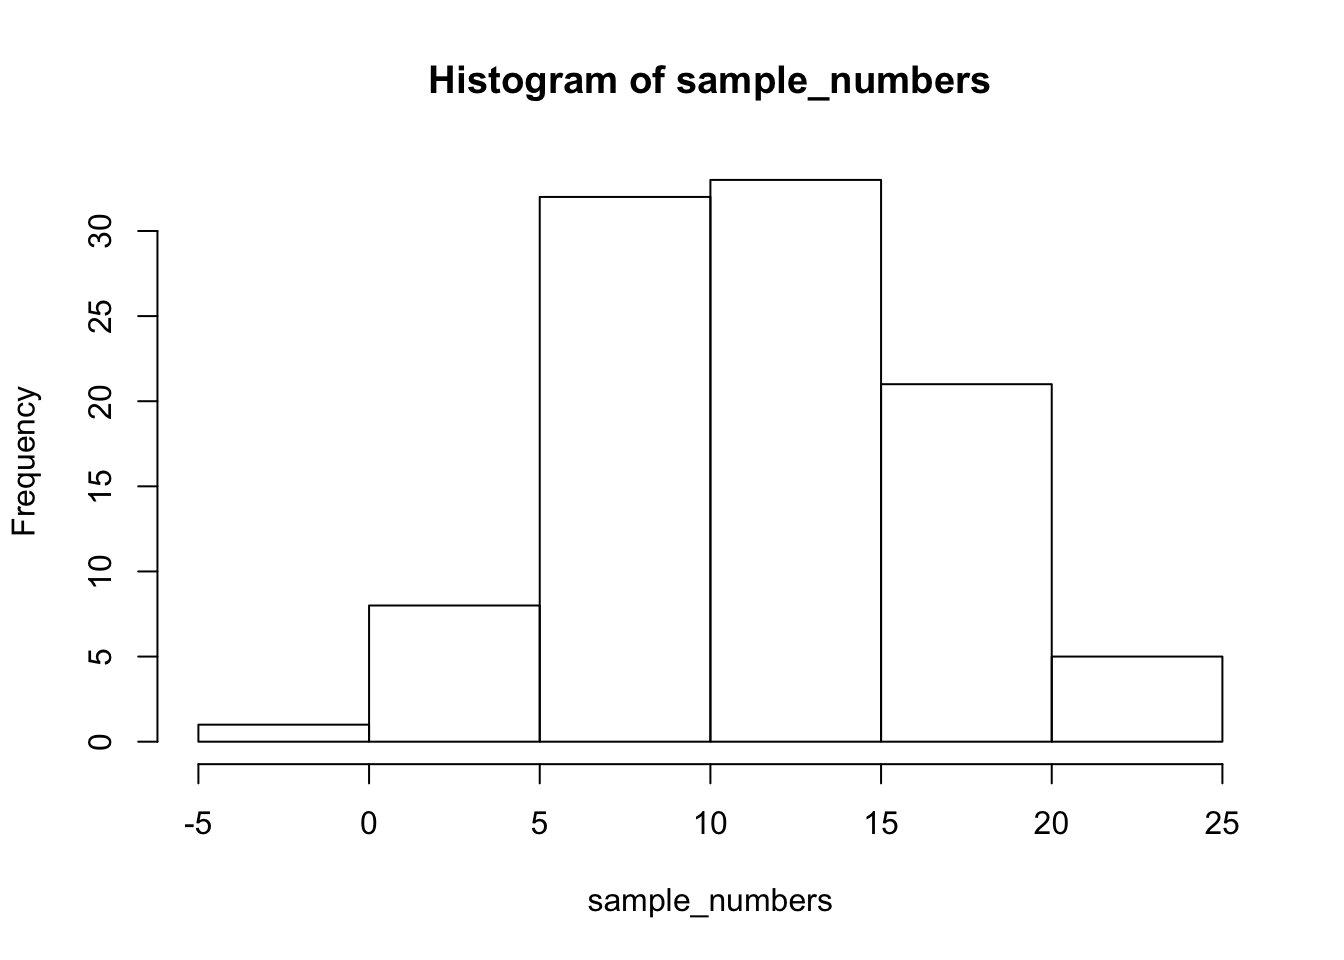
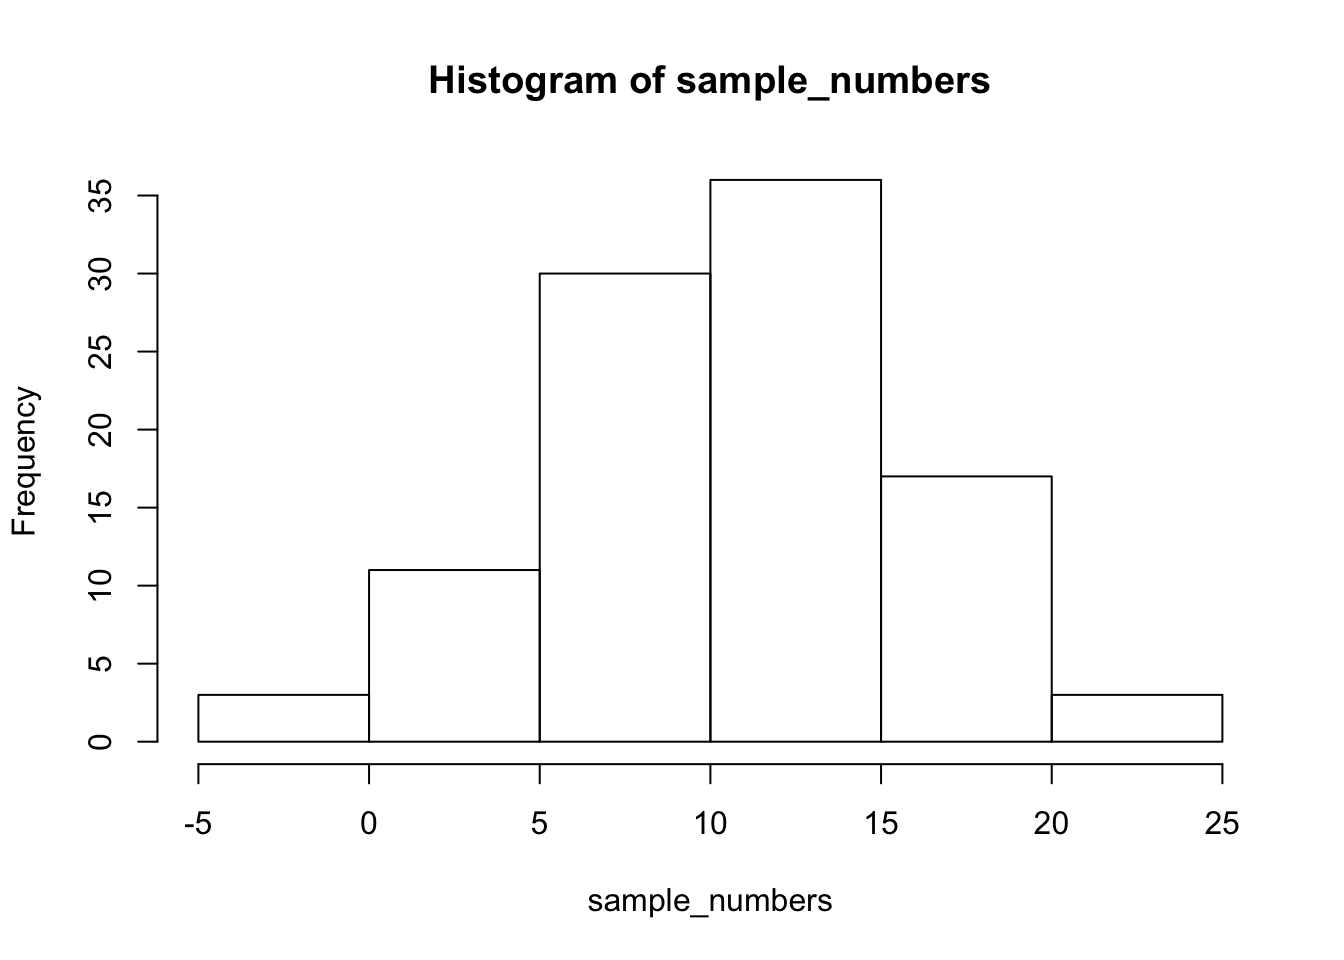
note chart editor

diff --git a/docs/lab-2-descriptive-statistics.html b/docs/lab-2-descriptive-statistics.html
@@ -617,22 +617,22 @@ Describing comic sensibility is near impossible. It’s sort of an abstract sill
 <h4><span class="header-section-number">2.2.3.1</span> range</h4>
 <p>The range is the minimum and maximum values in the set, we use the <code>range</code> function.</p>
 <div class="sourceCode" id="cb21"><pre class="sourceCode r"><code class="sourceCode r"><span id="cb21-1"><a href="lab-2-descriptive-statistics.html#cb21-1" aria-hidden="true" tabindex="-1"></a><span class="fu">range</span>(sample_numbers)</span></code></pre></div>
-<pre><code>## [1] -1.827349 23.077740</code></pre>
+<pre><code>## [1] -2.235343 24.163103</code></pre>
 </div>
 <div id="var-variance" class="section level4" number="2.2.3.2">
 <h4><span class="header-section-number">2.2.3.2</span> var = variance</h4>
 <p>We can find the sample variance using <code>var</code>. Note, divides by (n-1)</p>
 <div class="sourceCode" id="cb23"><pre class="sourceCode r"><code class="sourceCode r"><span id="cb23-1"><a href="lab-2-descriptive-statistics.html#cb23-1" aria-hidden="true" tabindex="-1"></a><span class="fu">var</span>(sample_numbers)</span></code></pre></div>
-<pre><code>## [1] 26.78856</code></pre>
+<pre><code>## [1] 29.04156</code></pre>
 </div>
 <div id="sd-standard-deviation" class="section level4" number="2.2.3.3">
 <h4><span class="header-section-number">2.2.3.3</span> sd = standard deviation</h4>
 <p>We find the sample standard deviation us SD. Note, divides by (n-1)</p>
 <div class="sourceCode" id="cb25"><pre class="sourceCode r"><code class="sourceCode r"><span id="cb25-1"><a href="lab-2-descriptive-statistics.html#cb25-1" aria-hidden="true" tabindex="-1"></a><span class="fu">sd</span>(sample_numbers)</span></code></pre></div>
-<pre><code>## [1] 5.175766</code></pre>
+<pre><code>## [1] 5.389022</code></pre>
 <p>Remember that the standard deviation is just the square root of the variance, see:</p>
 <div class="sourceCode" id="cb27"><pre class="sourceCode r"><code class="sourceCode r"><span id="cb27-1"><a href="lab-2-descriptive-statistics.html#cb27-1" aria-hidden="true" tabindex="-1"></a><span class="fu">sqrt</span>(<span class="fu">var</span>(sample_numbers))</span></code></pre></div>
-<pre><code>## [1] 5.175766</code></pre>
+<pre><code>## [1] 5.389022</code></pre>
 </div>
 <div id="all-descriptives" class="section level4" number="2.2.3.4">
 <h4><span class="header-section-number">2.2.3.4</span> All Descriptives</h4>
@@ -640,21 +640,21 @@ Describing comic sensibility is near impossible. It’s sort of an abstract sill
 <div class="sourceCode" id="cb29"><pre class="sourceCode r"><code class="sourceCode r"><span id="cb29-1"><a href="lab-2-descriptive-statistics.html#cb29-1" aria-hidden="true" tabindex="-1"></a>sample_numbers <span class="ot">&lt;-</span> <span class="fu">rnorm</span>(<span class="dv">100</span>,<span class="dv">10</span>,<span class="dv">5</span>)</span>
 <span id="cb29-2"><a href="lab-2-descriptive-statistics.html#cb29-2" aria-hidden="true" tabindex="-1"></a></span>
 <span id="cb29-3"><a href="lab-2-descriptive-statistics.html#cb29-3" aria-hidden="true" tabindex="-1"></a><span class="fu">sum</span>(sample_numbers)</span></code></pre></div>
-<pre><code>## [1] 927.0307</code></pre>
+<pre><code>## [1] 945.3046</code></pre>
 <div class="sourceCode" id="cb31"><pre class="sourceCode r"><code class="sourceCode r"><span id="cb31-1"><a href="lab-2-descriptive-statistics.html#cb31-1" aria-hidden="true" tabindex="-1"></a><span class="fu">length</span>(sample_numbers)</span></code></pre></div>
 <pre><code>## [1] 100</code></pre>
 <div class="sourceCode" id="cb33"><pre class="sourceCode r"><code class="sourceCode r"><span id="cb33-1"><a href="lab-2-descriptive-statistics.html#cb33-1" aria-hidden="true" tabindex="-1"></a><span class="fu">mean</span>(sample_numbers)</span></code></pre></div>
-<pre><code>## [1] 9.270307</code></pre>
+<pre><code>## [1] 9.453046</code></pre>
 <div class="sourceCode" id="cb35"><pre class="sourceCode r"><code class="sourceCode r"><span id="cb35-1"><a href="lab-2-descriptive-statistics.html#cb35-1" aria-hidden="true" tabindex="-1"></a><span class="fu">median</span>(sample_numbers)</span></code></pre></div>
-<pre><code>## [1] 9.402483</code></pre>
+<pre><code>## [1] 8.965307</code></pre>
 <div class="sourceCode" id="cb37"><pre class="sourceCode r"><code class="sourceCode r"><span id="cb37-1"><a href="lab-2-descriptive-statistics.html#cb37-1" aria-hidden="true" tabindex="-1"></a><span class="fu">my_mode</span>(sample_numbers)</span></code></pre></div>
-<pre><code>## [1] 5.399865</code></pre>
+<pre><code>## [1] 3.520696</code></pre>
 <div class="sourceCode" id="cb39"><pre class="sourceCode r"><code class="sourceCode r"><span id="cb39-1"><a href="lab-2-descriptive-statistics.html#cb39-1" aria-hidden="true" tabindex="-1"></a><span class="fu">range</span>(sample_numbers)</span></code></pre></div>
-<pre><code>## [1] -2.141966 20.130491</code></pre>
+<pre><code>## [1] -0.5019719 21.6282975</code></pre>
 <div class="sourceCode" id="cb41"><pre class="sourceCode r"><code class="sourceCode r"><span id="cb41-1"><a href="lab-2-descriptive-statistics.html#cb41-1" aria-hidden="true" tabindex="-1"></a><span class="fu">var</span>(sample_numbers)</span></code></pre></div>
-<pre><code>## [1] 25.74594</code></pre>
+<pre><code>## [1] 18.51614</code></pre>
 <div class="sourceCode" id="cb43"><pre class="sourceCode r"><code class="sourceCode r"><span id="cb43-1"><a href="lab-2-descriptive-statistics.html#cb43-1" aria-hidden="true" tabindex="-1"></a><span class="fu">sd</span>(sample_numbers)</span></code></pre></div>
-<pre><code>## [1] 5.074045</code></pre>
+<pre><code>## [1] 4.303039</code></pre>
 </div>
 </div>
 <div id="descriptives-by-conditions" class="section level3" number="2.2.4">
@@ -667,11 +667,11 @@ Describing comic sensibility is near impossible. It’s sort of an abstract sill
 <p>If you look at the <code>my_df</code> data frame, you will see it has 100 rows, there are 10 rows for each condition with a label in the <code>conditions</code> column, and 10 scores for each condition in the <code>scores</code> column. What if you wanted to know the mean of the scores in each condition? You would want to find 10 means.</p>
 <p>The slow way to do it would be like this:</p>
 <div class="sourceCode" id="cb46"><pre class="sourceCode r"><code class="sourceCode r"><span id="cb46-1"><a href="lab-2-descriptive-statistics.html#cb46-1" aria-hidden="true" tabindex="-1"></a><span class="fu">mean</span>(my_df[my_df<span class="sc">$</span>conditions<span class="sc">==</span><span class="st">&quot;A&quot;</span>,]<span class="sc">$</span>scores)</span></code></pre></div>
-<pre><code>## [1] 9.629979</code></pre>
+<pre><code>## [1] 9.410893</code></pre>
 <div class="sourceCode" id="cb48"><pre class="sourceCode r"><code class="sourceCode r"><span id="cb48-1"><a href="lab-2-descriptive-statistics.html#cb48-1" aria-hidden="true" tabindex="-1"></a><span class="fu">mean</span>(my_df[my_df<span class="sc">$</span>conditions<span class="sc">==</span><span class="st">&quot;B&quot;</span>,]<span class="sc">$</span>scores)</span></code></pre></div>
-<pre><code>## [1] 11.57588</code></pre>
+<pre><code>## [1] 10.65159</code></pre>
 <div class="sourceCode" id="cb50"><pre class="sourceCode r"><code class="sourceCode r"><span id="cb50-1"><a href="lab-2-descriptive-statistics.html#cb50-1" aria-hidden="true" tabindex="-1"></a><span class="fu">mean</span>(my_df[my_df<span class="sc">$</span>conditions<span class="sc">==</span><span class="st">&quot;C&quot;</span>,]<span class="sc">$</span>scores)</span></code></pre></div>
-<pre><code>## [1] 7.710677</code></pre>
+<pre><code>## [1] 10.9664</code></pre>
 <div class="sourceCode" id="cb52"><pre class="sourceCode r"><code class="sourceCode r"><span id="cb52-1"><a href="lab-2-descriptive-statistics.html#cb52-1" aria-hidden="true" tabindex="-1"></a><span class="co"># and then keep going</span></span></code></pre></div>
 <p>Nobody wants to do that! Not, me I stopped doing it that way, you should to.</p>
 <div id="group_by-and-summarise" class="section level4" number="2.2.4.1">
@@ -692,16 +692,16 @@ Describing comic sensibility is near impossible. It’s sort of an abstract sill
 <pre><code>## # A tibble: 10 x 2
 ##    conditions means
 ##  * &lt;fct&gt;      &lt;dbl&gt;
-##  1 A           9.63
-##  2 B          11.6 
-##  3 C           7.71
-##  4 D           9.21
-##  5 E          10.8 
-##  6 F          11.8 
-##  7 G           9.31
-##  8 H          11.5 
-##  9 I          12.0 
-## 10 J          12.2</code></pre>
+##  1 A           9.41
+##  2 B          10.7 
+##  3 C          11.0 
+##  4 D           7.59
+##  5 E          10.3 
+##  6 F          11.9 
+##  7 G          11.2 
+##  8 H           9.96
+##  9 I           9.36
+## 10 J           9.80</code></pre>
 <p>A couple things now. First, the print out of this was ugly. Let’s fix that. we put the results of our code into a new variable, then we use <code>knitr::kable</code> to print it out nicely when we <code>knit</code> the document</p>
 <div class="sourceCode" id="cb59"><pre class="sourceCode r"><code class="sourceCode r"><span id="cb59-1"><a href="lab-2-descriptive-statistics.html#cb59-1" aria-hidden="true" tabindex="-1"></a>summary_df <span class="ot">&lt;-</span> my_df <span class="sc">%&gt;%</span></span>
 <span id="cb59-2"><a href="lab-2-descriptive-statistics.html#cb59-2" aria-hidden="true" tabindex="-1"></a>               <span class="fu">group_by</span>(conditions) <span class="sc">%&gt;%</span></span>
@@ -718,43 +718,43 @@ Describing comic sensibility is near impossible. It’s sort of an abstract sill
 <tbody>
 <tr class="odd">
 <td align="left">A</td>
-<td align="right">9.629979</td>
+<td align="right">9.410894</td>
 </tr>
 <tr class="even">
 <td align="left">B</td>
-<td align="right">11.575880</td>
+<td align="right">10.651588</td>
 </tr>
 <tr class="odd">
 <td align="left">C</td>
-<td align="right">7.710677</td>
+<td align="right">10.966402</td>
 </tr>
 <tr class="even">
 <td align="left">D</td>
-<td align="right">9.209731</td>
+<td align="right">7.587917</td>
 </tr>
 <tr class="odd">
 <td align="left">E</td>
-<td align="right">10.840127</td>
+<td align="right">10.264672</td>
 </tr>
 <tr class="even">
 <td align="left">F</td>
-<td align="right">11.778390</td>
+<td align="right">11.854432</td>
 </tr>
 <tr class="odd">
 <td align="left">G</td>
-<td align="right">9.306429</td>
+<td align="right">11.157943</td>
 </tr>
 <tr class="even">
 <td align="left">H</td>
-<td align="right">11.493144</td>
+<td align="right">9.959902</td>
 </tr>
 <tr class="odd">
 <td align="left">I</td>
-<td align="right">11.983292</td>
+<td align="right">9.362267</td>
 </tr>
 <tr class="even">
 <td align="left">J</td>
-<td align="right">12.162172</td>
+<td align="right">9.795327</td>
 </tr>
 </tbody>
 </table>
@@ -779,53 +779,53 @@ Describing comic sensibility is near impossible. It’s sort of an abstract sill
 <tbody>
 <tr class="odd">
 <td align="left">A</td>
-<td align="right">9.629979</td>
-<td align="right">7.728759</td>
+<td align="right">9.410894</td>
+<td align="right">6.030044</td>
 </tr>
 <tr class="even">
 <td align="left">B</td>
-<td align="right">11.575880</td>
-<td align="right">2.992474</td>
+<td align="right">10.651588</td>
+<td align="right">5.206465</td>
 </tr>
 <tr class="odd">
 <td align="left">C</td>
-<td align="right">7.710677</td>
-<td align="right">5.228304</td>
+<td align="right">10.966402</td>
+<td align="right">3.154675</td>
 </tr>
 <tr class="even">
 <td align="left">D</td>
-<td align="right">9.209731</td>
-<td align="right">4.666707</td>
+<td align="right">7.587917</td>
+<td align="right">5.689530</td>
 </tr>
 <tr class="odd">
 <td align="left">E</td>
-<td align="right">10.840127</td>
-<td align="right">4.999692</td>
+<td align="right">10.264672</td>
+<td align="right">4.313340</td>
 </tr>
 <tr class="even">
 <td align="left">F</td>
-<td align="right">11.778390</td>
-<td align="right">6.233629</td>
+<td align="right">11.854432</td>
+<td align="right">6.306411</td>
 </tr>
 <tr class="odd">
 <td align="left">G</td>
-<td align="right">9.306429</td>
-<td align="right">7.168511</td>
+<td align="right">11.157943</td>
+<td align="right">3.731127</td>
 </tr>
 <tr class="even">
 <td align="left">H</td>
-<td align="right">11.493144</td>
-<td align="right">6.536469</td>
+<td align="right">9.959902</td>
+<td align="right">3.121058</td>
 </tr>
 <tr class="odd">
 <td align="left">I</td>
-<td align="right">11.983292</td>
-<td align="right">4.855272</td>
+<td align="right">9.362267</td>
+<td align="right">2.783886</td>
 </tr>
 <tr class="even">
 <td align="left">J</td>
-<td align="right">12.162172</td>
-<td align="right">4.743620</td>
+<td align="right">9.795327</td>
+<td align="right">2.806463</td>
 </tr>
 </tbody>
 </table>
@@ -851,73 +851,73 @@ Describing comic sensibility is near impossible. It’s sort of an abstract sill
 <tbody>
 <tr class="odd">
 <td align="left">A</td>
-<td align="right">9.629979</td>
-<td align="right">7.728759</td>
-<td align="right">-5.5831461</td>
-<td align="right">20.84992</td>
+<td align="right">9.410894</td>
+<td align="right">6.030044</td>
+<td align="right">-1.144350</td>
+<td align="right">16.32195</td>
 </tr>
 <tr class="even">
 <td align="left">B</td>
-<td align="right">11.575880</td>
-<td align="right">2.992474</td>
-<td align="right">6.8483572</td>
-<td align="right">17.33454</td>
+<td align="right">10.651588</td>
+<td align="right">5.206465</td>
+<td align="right">3.911428</td>
+<td align="right">23.18050</td>
 </tr>
 <tr class="odd">
 <td align="left">C</td>
-<td align="right">7.710677</td>
-<td align="right">5.228304</td>
-<td align="right">-1.6003194</td>
-<td align="right">14.24417</td>
+<td align="right">10.966402</td>
+<td align="right">3.154675</td>
+<td align="right">5.319074</td>
+<td align="right">15.36950</td>
 </tr>
 <tr class="even">
 <td align="left">D</td>
-<td align="right">9.209731</td>
-<td align="right">4.666707</td>
-<td align="right">2.5906001</td>
-<td align="right">16.89555</td>
+<td align="right">7.587917</td>
+<td align="right">5.689530</td>
+<td align="right">1.323393</td>
+<td align="right">17.97333</td>
 </tr>
 <tr class="odd">
 <td align="left">E</td>
-<td align="right">10.840127</td>
-<td align="right">4.999692</td>
-<td align="right">2.2625843</td>
-<td align="right">18.34681</td>
+<td align="right">10.264672</td>
+<td align="right">4.313340</td>
+<td align="right">2.994626</td>
+<td align="right">16.52931</td>
 </tr>
 <tr class="even">
 <td align="left">F</td>
-<td align="right">11.778390</td>
-<td align="right">6.233629</td>
-<td align="right">0.6891924</td>
-<td align="right">19.52503</td>
+<td align="right">11.854432</td>
+<td align="right">6.306411</td>
+<td align="right">3.761456</td>
+<td align="right">21.58474</td>
 </tr>
 <tr class="odd">
 <td align="left">G</td>
-<td align="right">9.306429</td>
-<td align="right">7.168511</td>
-<td align="right">-8.5344637</td>
-<td align="right">16.17084</td>
+<td align="right">11.157943</td>
+<td align="right">3.731127</td>
+<td align="right">3.749374</td>
+<td align="right">17.49096</td>
 </tr>
 <tr class="even">
 <td align="left">H</td>
-<td align="right">11.493144</td>
-<td align="right">6.536469</td>
-<td align="right">4.2993655</td>
-<td align="right">25.54848</td>
+<td align="right">9.959902</td>
+<td align="right">3.121058</td>
+<td align="right">4.898545</td>
+<td align="right">13.22265</td>
 </tr>
 <tr class="odd">
 <td align="left">I</td>
-<td align="right">11.983292</td>
-<td align="right">4.855272</td>
-<td align="right">2.2104945</td>
-<td align="right">17.96211</td>
+<td align="right">9.362267</td>
+<td align="right">2.783886</td>
+<td align="right">5.854858</td>
+<td align="right">13.96961</td>
 </tr>
 <tr class="even">
 <td align="left">J</td>
-<td align="right">12.162172</td>
-<td align="right">4.743620</td>
-<td align="right">3.5704961</td>
-<td align="right">18.17278</td>
+<td align="right">9.795327</td>
+<td align="right">2.806463</td>
+<td align="right">6.323152</td>
+<td align="right">13.78643</td>
 </tr>
 </tbody>
 </table>
@@ -1092,7 +1092,7 @@ Describing comic sensibility is near impossible. It’s sort of an abstract sill
 </div>
 <div id="editing-the-bin-width" class="section level4" number="2.4.3.2">
 <h4><span class="header-section-number">2.4.3.2</span> Editing the bin width</h4>
-<p>Another important aspect of a histogram’s appearance is the bin width. To change the bin width, double click on one of the bars to bring the Properties window up.</p>
+<p>Another important aspect of a histogram’s appearance is the bin width. You can change the bin width in the Chart Editor. Double click on one of the bars to bring the Properties window up.</p>
 <p><img src="img/2.4.28.png" /><!-- --></p>
 <p>The default tab, <span style="color:blue">Binning</span>, will allow you to change the properties of the bins. You can set the bin width or the number of bins in this tab. For example, to set the bin width, select <span style="color:blue">Custom</span> (in the X Axis box, about halfway down the Properties window). Then select <span style="color:blue">Interval width</span>, input your chosen bin width (in this example, <span style="color:blue">10</span>), and hit <span style="color:blue">Apply</span>.</p>
 <p><img src="img/2.4.29.png" /><!-- --></p>
